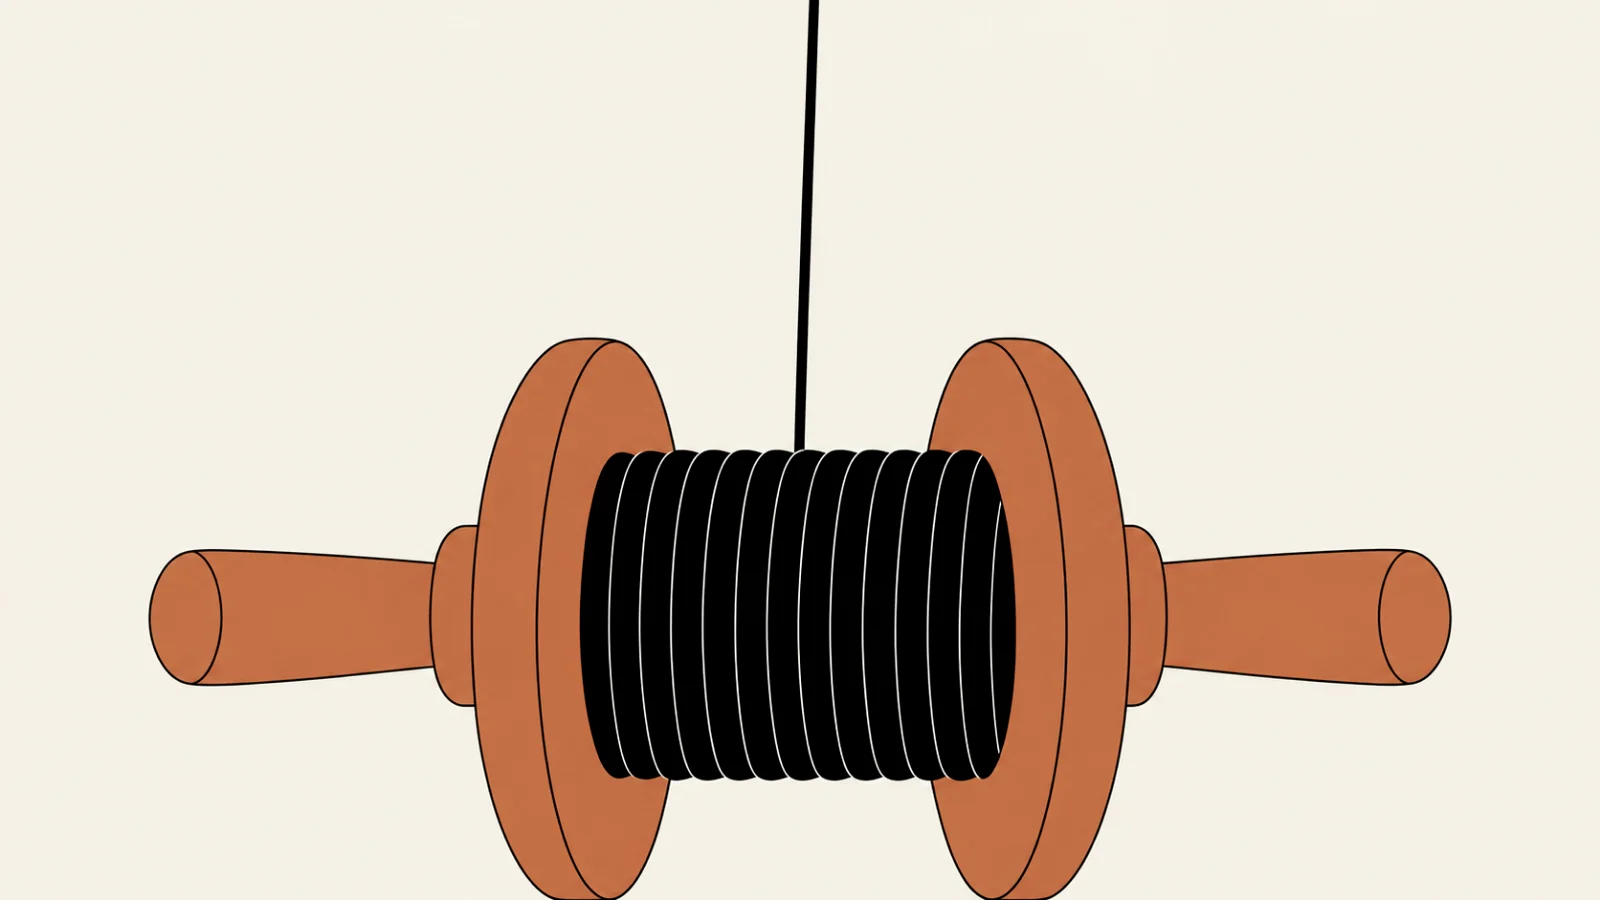
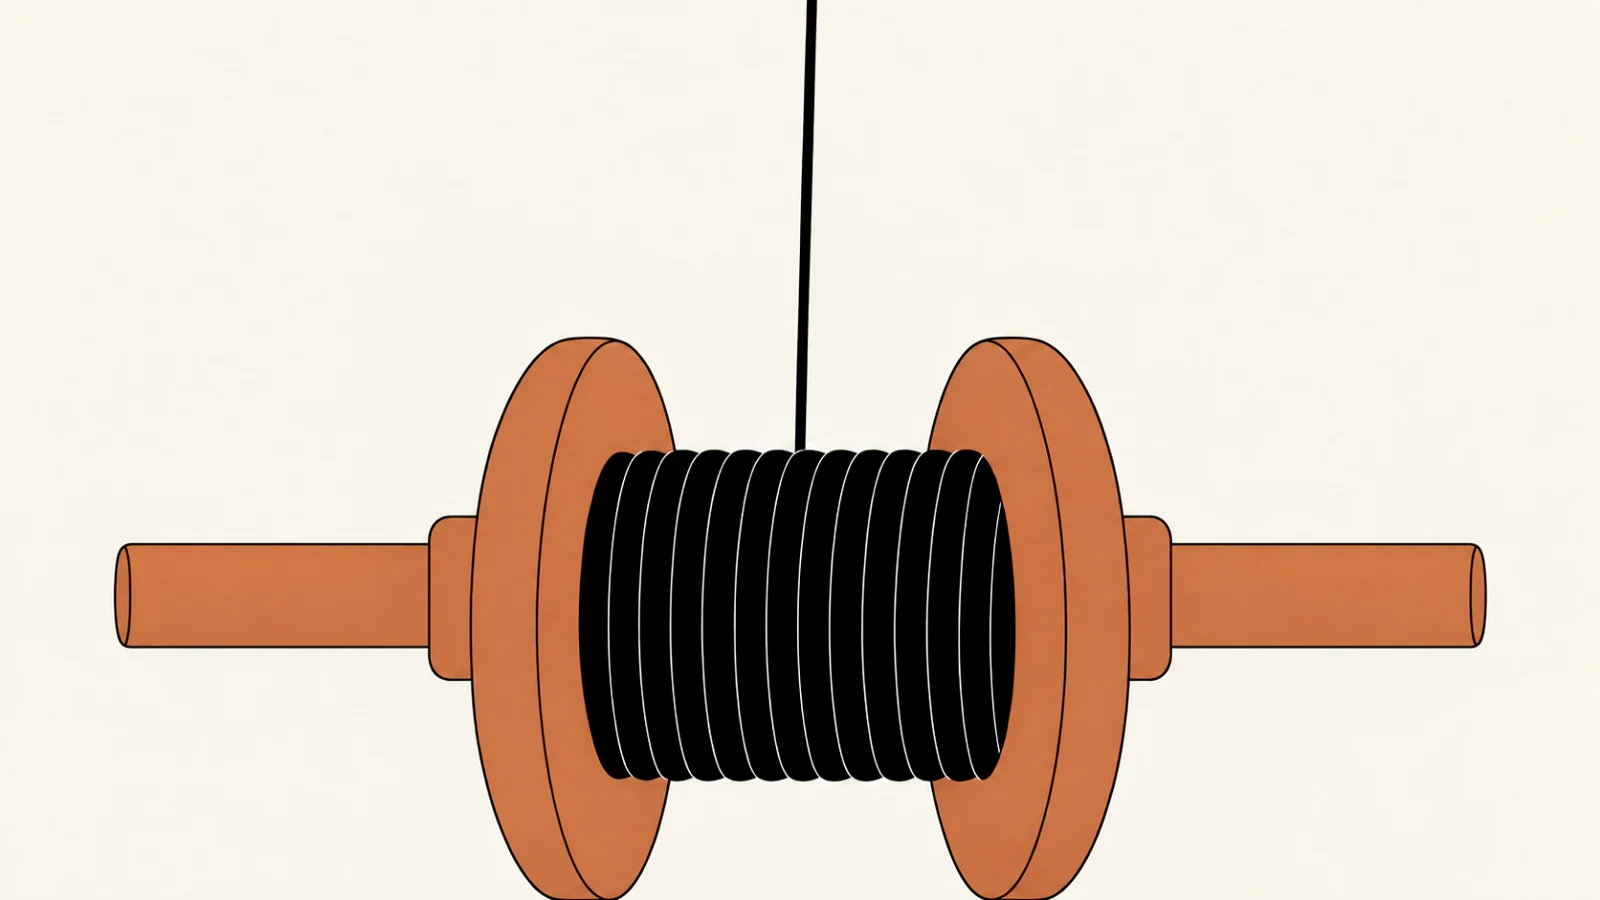
The reel in the ambiguity-to-release article is redrawn
An asset swap under CLAUDE.md's carve-out: the second drawing on
writing/how-i-move-a-complex-workflow-from-ambiguity-to-release.html
is replaced with a new picture of the same scene, taken in through
draw.mjs land/take and illustrate.mjs feature at brightness 1. Mean
luminance 203.6 against the old file's 199.9. The cache-buster moves
to v=3 and seo.mjs --write stamps the date.

resting.mjs: 97 measurements before and after. states.mjs: 78
measurements across 72 rules before and after.

diff --git a/writing/how-i-move-a-complex-workflow-from-ambiguity-to-release.html b/writing/how-i-move-a-complex-workflow-from-ambiguity-to-release.html
@@ -44,7 +44,7 @@
           "mainEntityOfPage": "https://adamhickey.com/writing/how-i-move-a-complex-workflow-from-ambiguity-to-release.html",
           "image": "https://adamhickey.com/img/og/how-i-move-a-complex-workflow-from-ambiguity-to-release.jpg",
           "datePublished": "2026-09-10",
-          "dateModified": "2026-09-14",
+          "dateModified": "2026-09-15",
           "author": {
             "@id": "https://adamhickey.com/#adam"
           },
@@ -309,7 +309,7 @@
           <!-- The second drawing: the argument's second half, in the set's style,
                from scripts/writing-scenes.mjs through scripts/draw.mjs. -->
           <figure class="writing-figure writing-scene">
-            <img src="../img/writing/how-i-move-a-complex-workflow-from-ambiguity-to-release-2.webp?v=2" width="1600" height="900" alt="A large terracotta hand reel cropped by the bottom of the frame, the black string wound neatly around it, and one straight black line rising from it off the top edge." loading="lazy" decoding="async" />
+            <img src="../img/writing/how-i-move-a-complex-workflow-from-ambiguity-to-release-2.webp?v=3" width="1600" height="900" alt="A large terracotta hand reel cropped by the bottom of the frame, the black string wound neatly around it, and one straight black line rising from it off the top edge." loading="lazy" decoding="async" />
             <figcaption>The problem in one sentence everyone recognizes, before anyone draws anything: the tangle, wound onto one reel.</figcaption>
           </figure>
 
